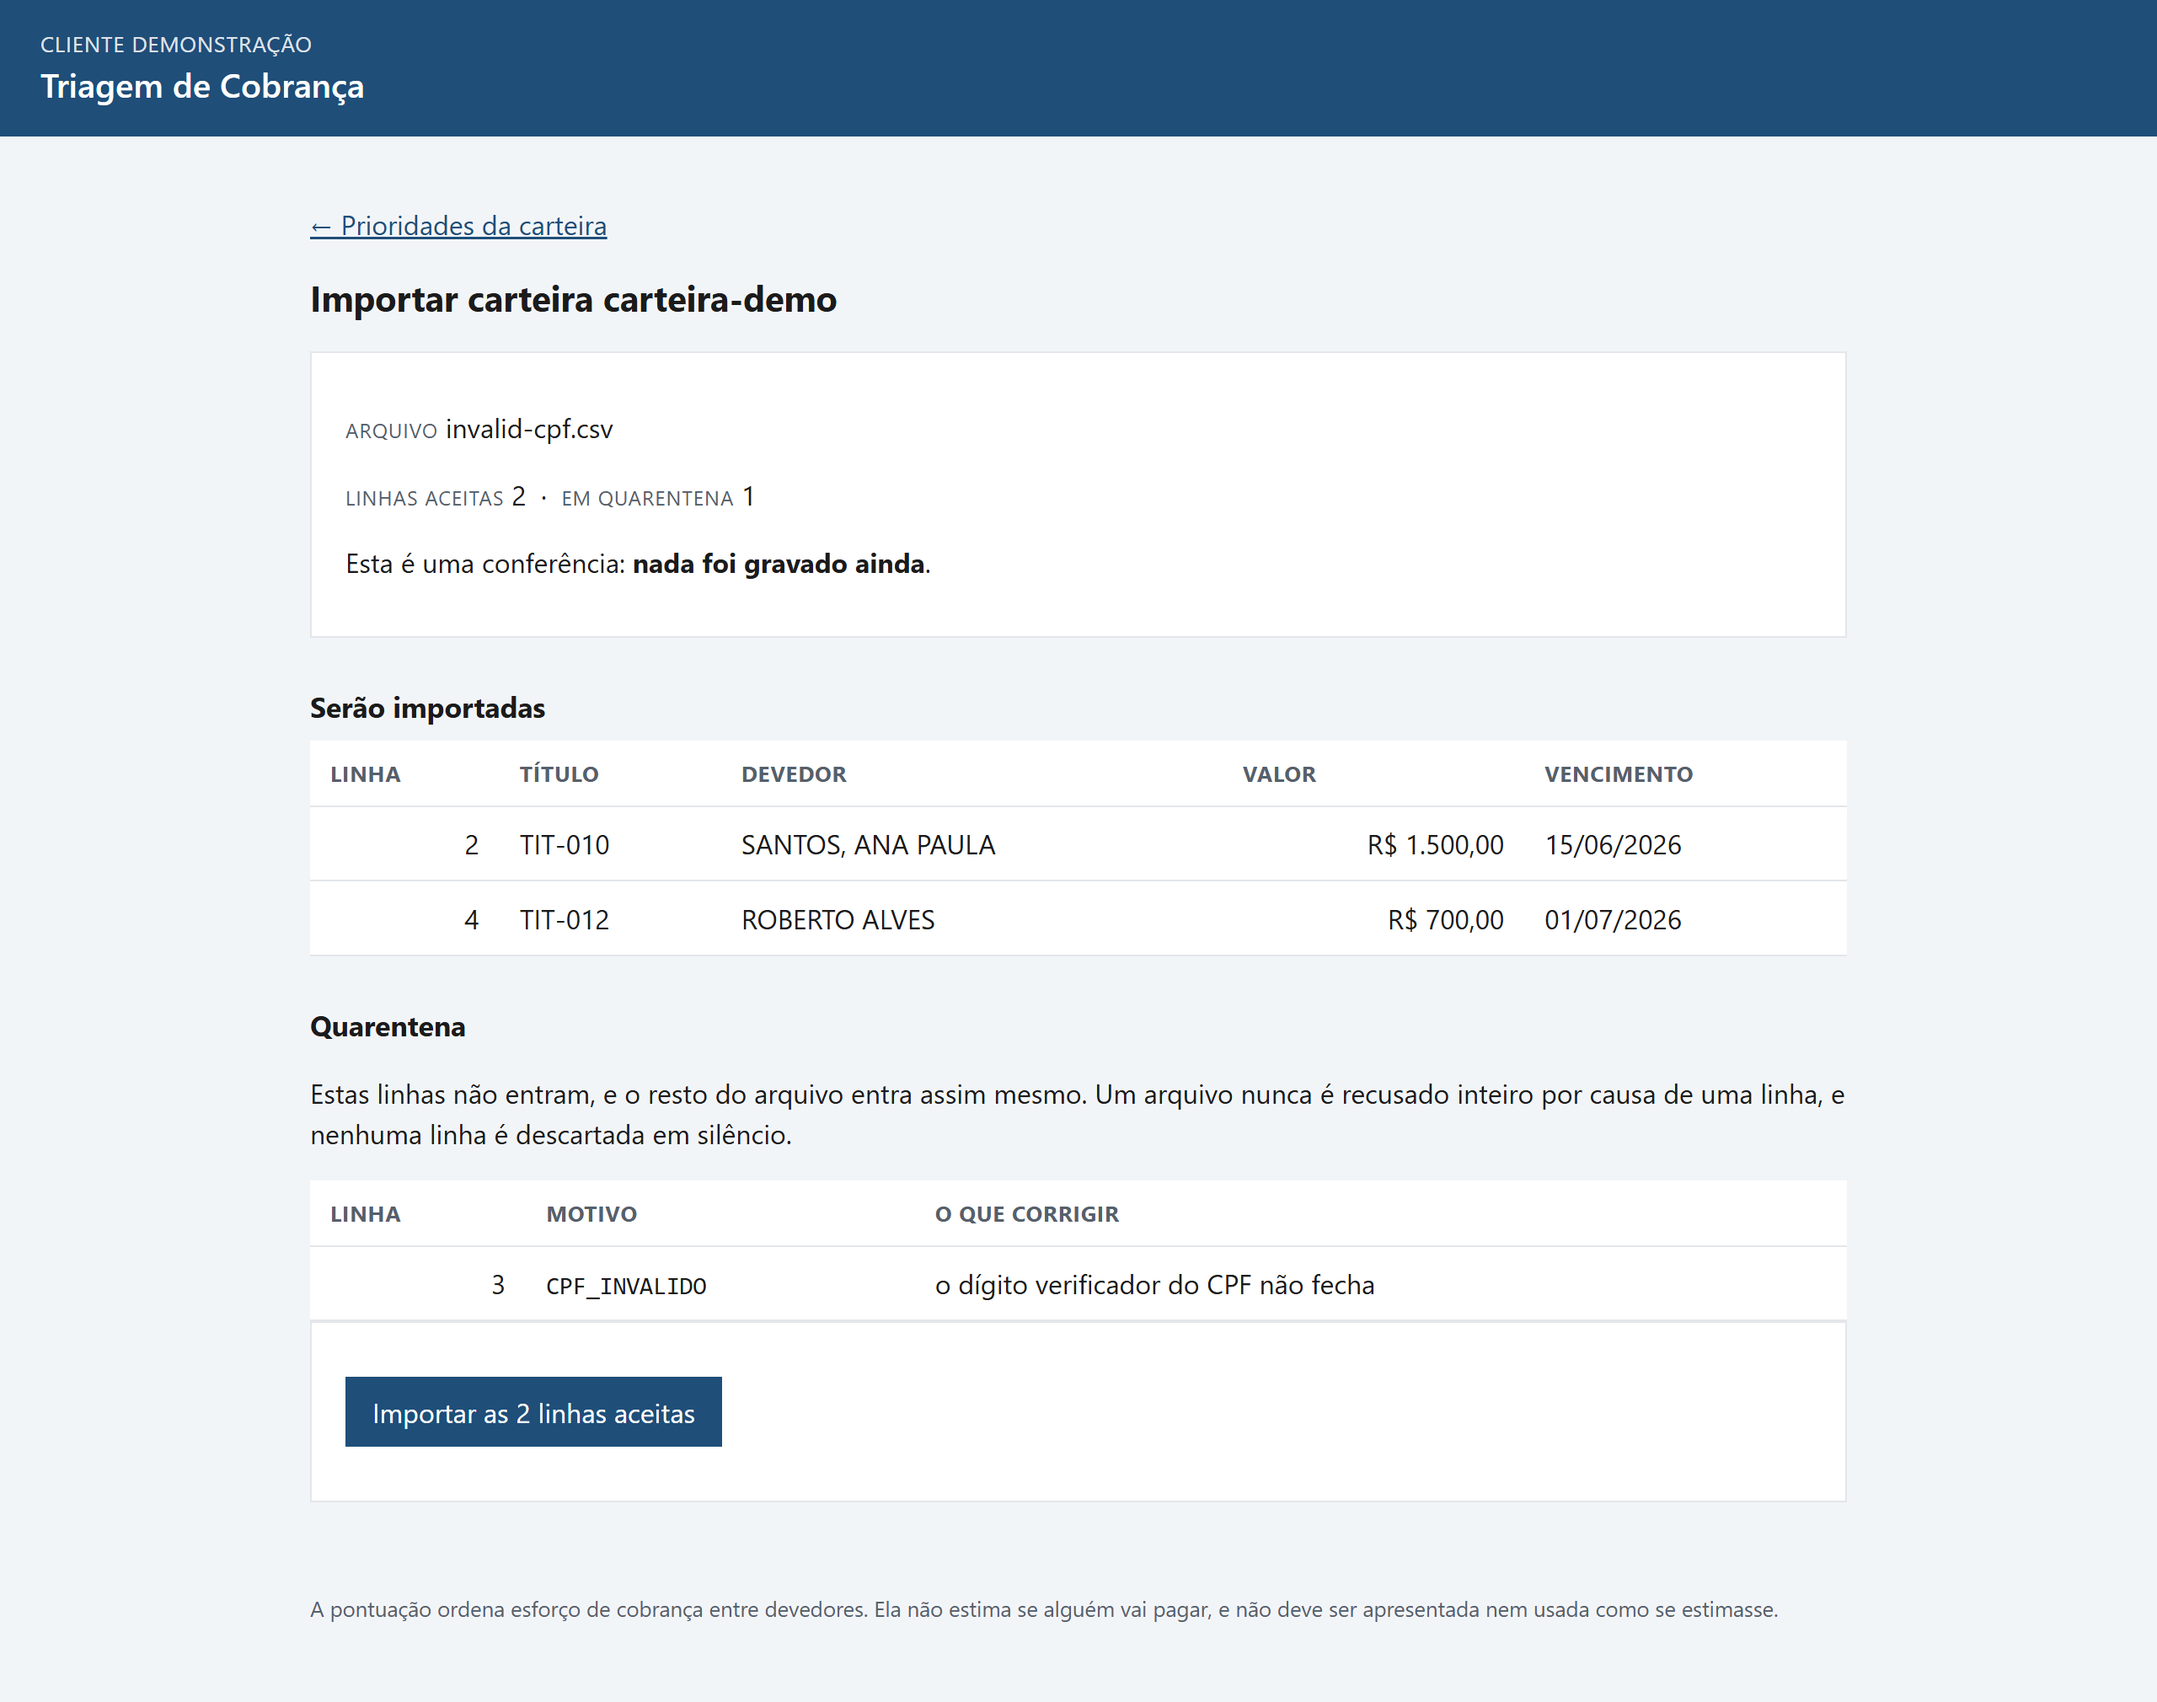
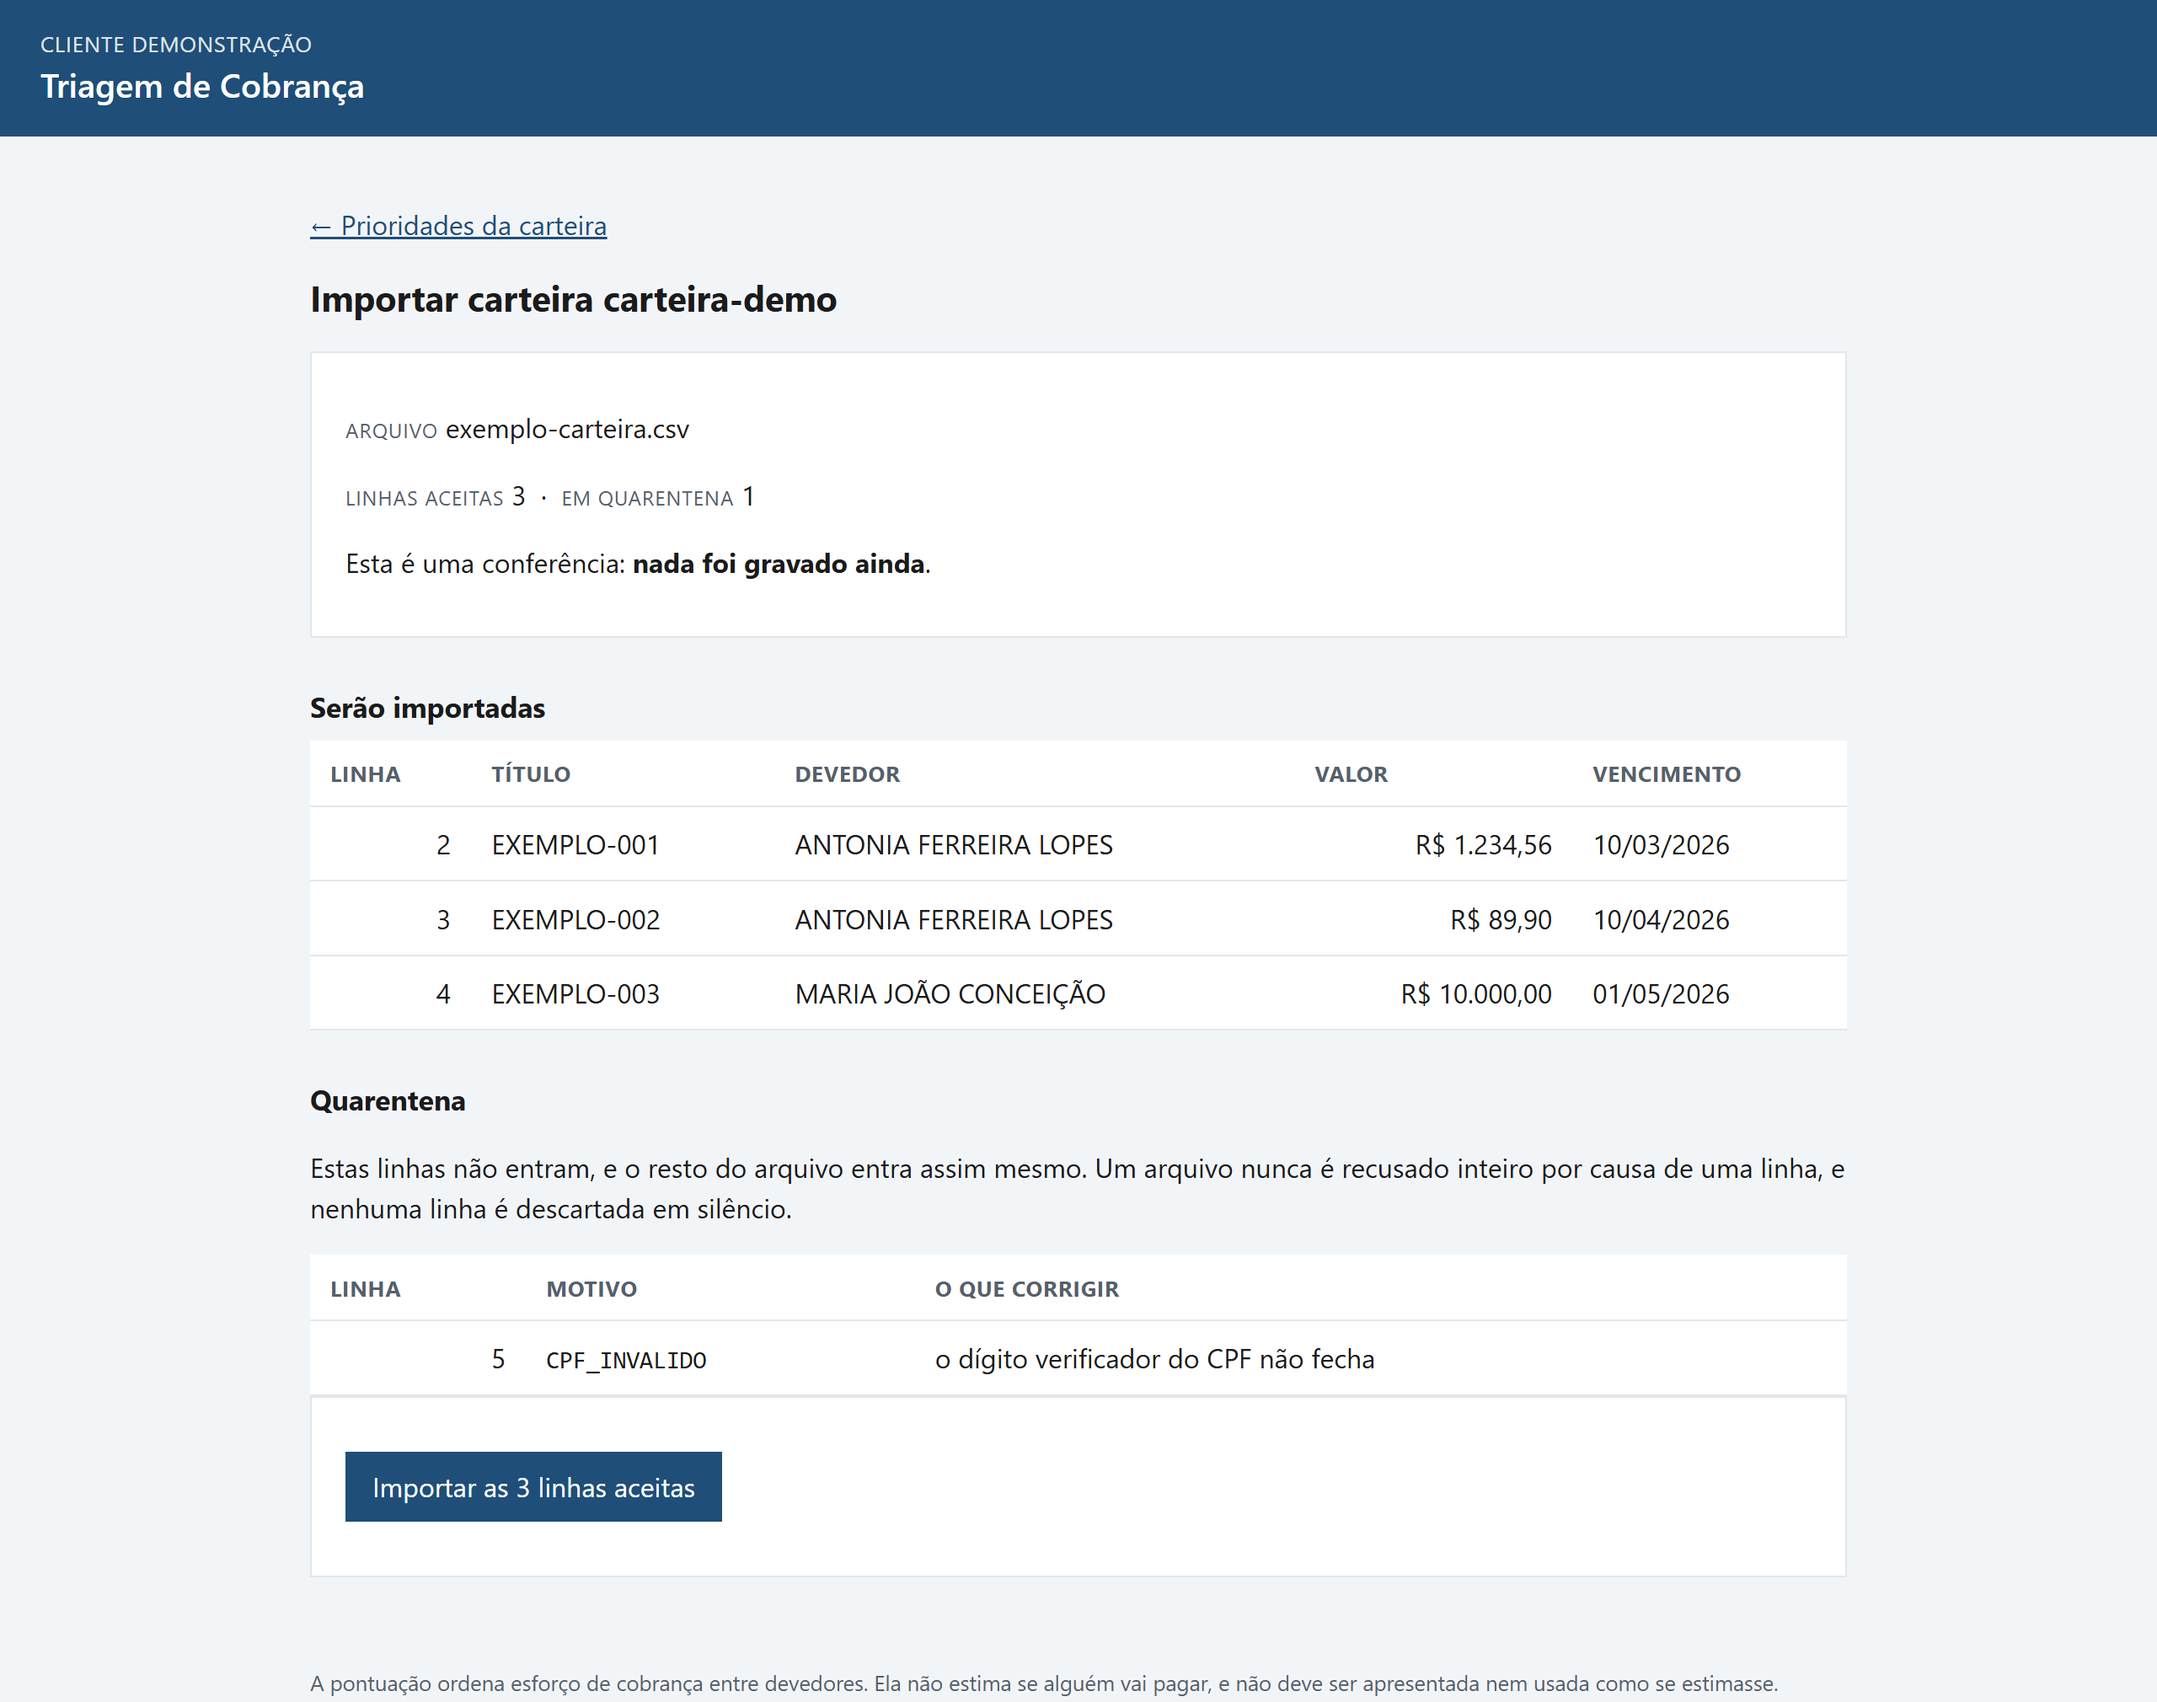
fix: give the example file CPFs the demo wallet does not seed
Every row of the example aggregated onto a debtor the demo already had, so
trying it produced three titles updated and no new line in the queue — the
opposite of what an operator needs to see on a first attempt. The CPFs are
now outside the seeded set, and a test keeps them there.

Screenshots refreshed: the queue now shows two freshly imported debtors
marked sem dossiê composto, and the preview shows the example file.

diff --git a/packages/adapters/src/wallet-importers/columns.ts b/packages/adapters/src/wallet-importers/columns.ts
@@ -73,13 +73,17 @@ export const WALLET_COLUMNS: readonly WalletColumn[] = Object.freeze([
  * - one row with a check digit that does not close, so the quarantine is
  *   visible on the first try instead of being a paragraph nobody believes.
  *
- * Every CPF here is synthetic.
+ * Every CPF here is synthetic, and deliberately **outside** the set the demo
+ * wallet seeds. Reusing one of those would make every row of the example
+ * aggregate onto a debtor who already exists — three titles updated, no new
+ * line in the queue — which is the opposite of what an operator trying the
+ * file for the first time needs to see.
  */
 const EXAMPLE_ROWS: readonly string[] = Object.freeze([
-  "TIT-001;JOSE DA SILVA;529.982.247-25;1.234,56;10/03/2026",
-  "TIT-002;JOSE DA SILVA;529.982.247-25;89,90;10/04/2026",
-  "TIT-003;MARIA JOÃO CONCEIÇÃO;111.444.777-35;10.000,00;2026-05-01",
-  "TIT-004;CARLOS PEREIRA;529.982.247-26;300,00;20/06/2026",
+  "EXEMPLO-001;ANTONIA FERREIRA LOPES;371.829.456-73;1.234,56;10/03/2026",
+  "EXEMPLO-002;ANTONIA FERREIRA LOPES;371.829.456-73;89,90;10/04/2026",
+  "EXEMPLO-003;MARIA JOÃO CONCEIÇÃO;204.815.937-05;10.000,00;2026-05-01",
+  "EXEMPLO-004;CARLOS PEREIRA;845.206.173-09;300,00;20/06/2026",
 ]);
 
 export function exampleWalletCsv(): string {

diff --git a/packages/adapters/src/wallet-importers/columns.test.ts b/packages/adapters/src/wallet-importers/columns.test.ts
@@ -176,3 +176,20 @@ describe("the example file an operator downloads first", () => {
     expect(committed).toBe(exampleWalletCsv());
   });
 });
+
+describe("the example file against the demo wallet", () => {
+  it("uses CPFs the demo does not already seed", () => {
+    // If it reused one, every accepted row would aggregate onto a debtor who
+    // already exists: three titles updated and no new line in the queue, which
+    // teaches the opposite of what the file is for.
+    const seededByTheDemo = ["529982247", "123111222", "111444777"];
+    const csv = exampleWalletCsv();
+
+    for (const base of seededByTheDemo) {
+      expect(csv).not.toContain(base);
+      expect(csv).not.toContain(
+        `${base.slice(0, 3)}.${base.slice(3, 6)}.${base.slice(6, 9)}`,
+      );
+    }
+  });
+});

diff --git a/README.md b/README.md
@@ -16,6 +16,12 @@ camada de entrega.
 valor devido: a pontuação ordena **esforço de cobrança**, e o rodapé diz isso em
 toda tela para que ninguém a leia como probabilidade de pagamento.
 
+A fila é lida da carteira no banco, então **o que você importa aparece aqui na
+hora**. As duas últimas linhas da imagem são de uma carteira acabada de subir
+pela tela: marcadas **"sem dossiê composto"**, porque ninguém consultou fonte
+alguma sobre elas ainda — que é resposta diferente de "as fontes nada
+encontraram", e a tela não confunde as duas.
+
 ![Dossiê com campos, sinais e explicação](docs/img/02-dossie.png)
 
 **Dossiê.** Cada campo carrega valor, fonte, vínculo e data de coleta. O campo
@@ -383,9 +389,11 @@ fonte, e a explicação por extenso. O que vale reparar:
 um script, o que é a resposta errada para "como o cliente carrega a carteira"
 num sistema web.
 
-1. **Escolha um arquivo e clique em "Conferir antes de importar".** Para ver a
-   quarentena funcionando, use `fixtures/wallet/invalid-cpf.csv`: três linhas,
-   uma delas com dígito verificador que não fecha.
+1. **Escolha um arquivo e clique em "Conferir antes de importar".** Use o
+   [`docs/exemplo-carteira.csv`](docs/exemplo-carteira.csv) que a própria tela
+   oferece: quatro linhas, sendo duas do mesmo devedor e uma com dígito
+   verificador que não fecha. Depois de confirmar, a fila ganha **dois**
+   devedores novos — não três —, que é a diferença entre título e pessoa.
 2. **Confira e confirme.** A conferência mostra o que seria aceito — título,
    devedor, valor em reais e vencimento — e o que iria para quarentena, com
    **número da linha e motivo**. Só então o botão importa.
